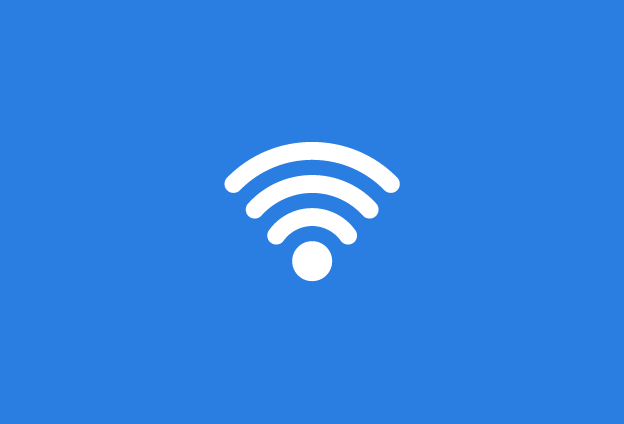
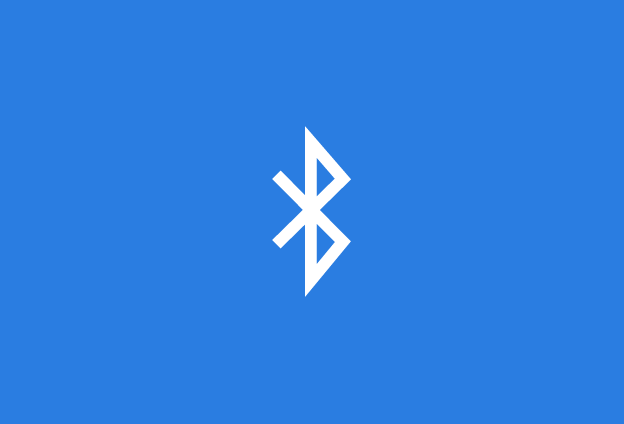
Update Support.tsx

Changed region(s): [[0.3349, 0.3373, 0.6394, 0.7052], [0.4872, 0.3066, 0.5176, 0.3373]]

diff --git a/components/SupportSection.tsx b/components/SupportSection.tsx
@@ -5,6 +5,10 @@ import Swap2 from "../public/support-imgs/swap-2.jpeg";
 import Swap3 from "../public/support-imgs/swap-3.jpeg";
 import ConnectA1 from "../public/support-imgs/connect-1.png";
 import ConnectA2 from "../public/support-imgs/connect-2.png";
+import Translate2 from "../public/support-imgs/translate-2.png";
+import Translate3 from "../public/support-imgs/translate-3.png";
+import Learn2 from "../public/support-imgs/learn-2.png";
+import Learn3 from "../public/support-imgs/learn-3.png";
 // import ConnectA3 from "../public/support-imgs/connect-2.jpg";
 import ConnectB1 from "../public/support-imgs/connect-1.png";
 import ConnectB2 from "../public/support-imgs/connect-b-2.png";
@@ -93,34 +97,64 @@ export const Swap = () => {
   );
 };
 
-export const ConnectA = () => {
+export const Translate = () => {
   return (
     <section className="bg-white py-2 mx-6 sm:mx-0 text-center">
       <div className="flex flex-wrap">
         <SupportSection
           number={1}
           image={ConnectA1}
-          alt="Wi-Fi symbol."
-          instructionText="Connect to the Paige Wi-Fi network. Enter the password 12345678."
+          alt="Bluetooth symbol."
+          instructionText="On your phone, tablet or laptop, turn Bluetooth on and connect to the Paige device."
         />
         <div className="w-px h-full bg-gray-400 my-4 md:hidden"></div>
         <SupportSection
           number={2}
-          image={ConnectA2}
+          image={Translate2}
           alt="Screenshot of the Paige Connect web app open in a browser."
-          instructionText="Connect to the web app by typing http://192.168.0.1 into your browser."
+          instructionText="Go to our website at paigebraille.com/translate"
         />
         <div className="w-px h-full bg-gray-400 my-4 md:hidden"></div>
         <SupportSection
           number={3}
-          image={ConnectA2}
+          image={Translate3}
           alt="Screenshot of the Paige Connect web app open in a browser."
-          instructionText="Please note that you will not be connected to internet."
+          instructionText="Start writing braille to see or hear what you emboss!"
         />
       </div>
     </section>
   );
 };
+
+export const Learn = () => {
+  return (
+    <section className="bg-white py-2 mx-6 sm:mx-0 text-center">
+      <div className="flex flex-wrap">
+        <SupportSection
+          number={1}
+          image={ConnectA1}
+          alt="Bluetooth symbol."
+          instructionText="On your phone, tablet or laptop, turn Bluetooth on and connect to the Paige device."
+        />
+        <div className="w-px h-full bg-gray-400 my-4 md:hidden"></div>
+        <SupportSection
+          number={2}
+          image={Learn2}
+          alt="Screenshot of the Paige Connect web app open in a browser."
+          instructionText="Go to our website at paigebraill.com/learn"
+        />
+        <div className="w-px h-full bg-gray-400 my-4 md:hidden"></div>
+        <SupportSection
+          number={3}
+          image={Learn3}
+          alt="Screenshot of the Paige Connect web app open in a browser."
+          instructionText="Start learning braille with curated online exercises!"
+        />
+      </div>
+    </section>
+  );
+};
+
 
 export const ConnectB = () => {
   return (

diff --git a/pages/support.tsx b/pages/support.tsx
@@ -4,7 +4,8 @@ import path from "path";
 import Heading from "../components/Heading";
 import {
   Swap,
-  ConnectA,
+  Translate,
+  Learn,
   ConnectB,
   Share,
   Update,
@@ -20,30 +21,30 @@ const questions: FAQuestion[] = [
     fragment: <Swap />,
   },
   {
-    question: "Connect (without internet)",
+    question: "Translate",
     answer: [],
-    fragment: <ConnectA />,
+    fragment: <Translate />,
   },
+  // {
+  //   question: "Connect (with internet)",
+  //   answer: [],
+  //   fragment: <ConnectB />,
+  // },
   {
-    question: "Connect (with internet)",
+    question: "Learn",
     answer: [],
-    fragment: <ConnectB />,
+    fragment: <Learn />,
   },
-  {
-    question: "Share",
-    answer: [],
-    fragment: <Share />,
-  },
-  {
-    question: "Update",
-    answer: [],
-    fragment: <Update />,
-  },
-  {
-    question: "Name",
-    answer: [],
-    fragment: <Name />,
-  },
+  // {
+  //   question: "Update",
+  //   answer: [],
+  //   fragment: <Update />,
+  // },
+  // {
+  //   question: "Name",
+  //   answer: [],
+  //   fragment: <Name />,
+  // },
   // Add more questions here...
 ];
 
